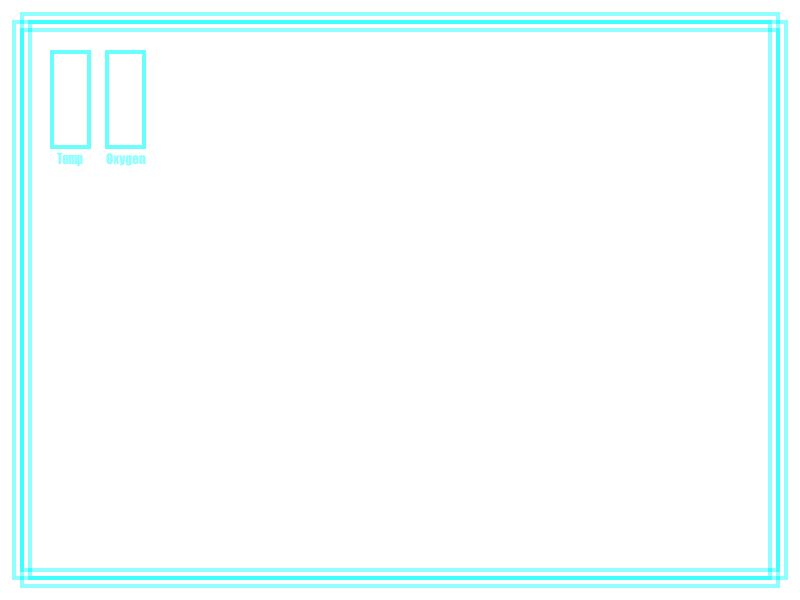
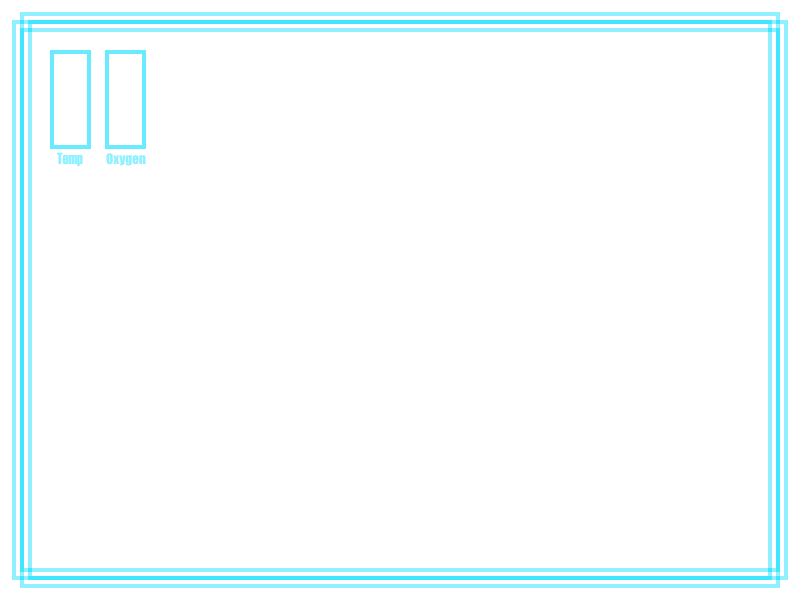
Replaced HUD png

Changed region(s): [[0.0, 0.03, 1.0, 0.96], [0.0312, 0.96, 0.9688, 0.99]]

diff --git a/src/HUD.cpp b/src/HUD.cpp
@@ -31,7 +31,7 @@ void HUD::init(SDL_Renderer* _renderer)
 	//load in the image of HUD (HUD.png)
 	int imgFlags = IMG_INIT_PNG;
 	int retFlags = IMG_Init(imgFlags);
-	hud.push_back(utils::loadTexture(renderer_h, "Physics/Nu HUD.png"));
+	hud.push_back(utils::loadTexture(renderer_h, "Physics/HUD.png"));
 	SDL_Rect Temp = {54, 54, 33, 91};
 	SDL_Rect Oxygen = {109, 54, 33, 91};
 	init_h = true;
